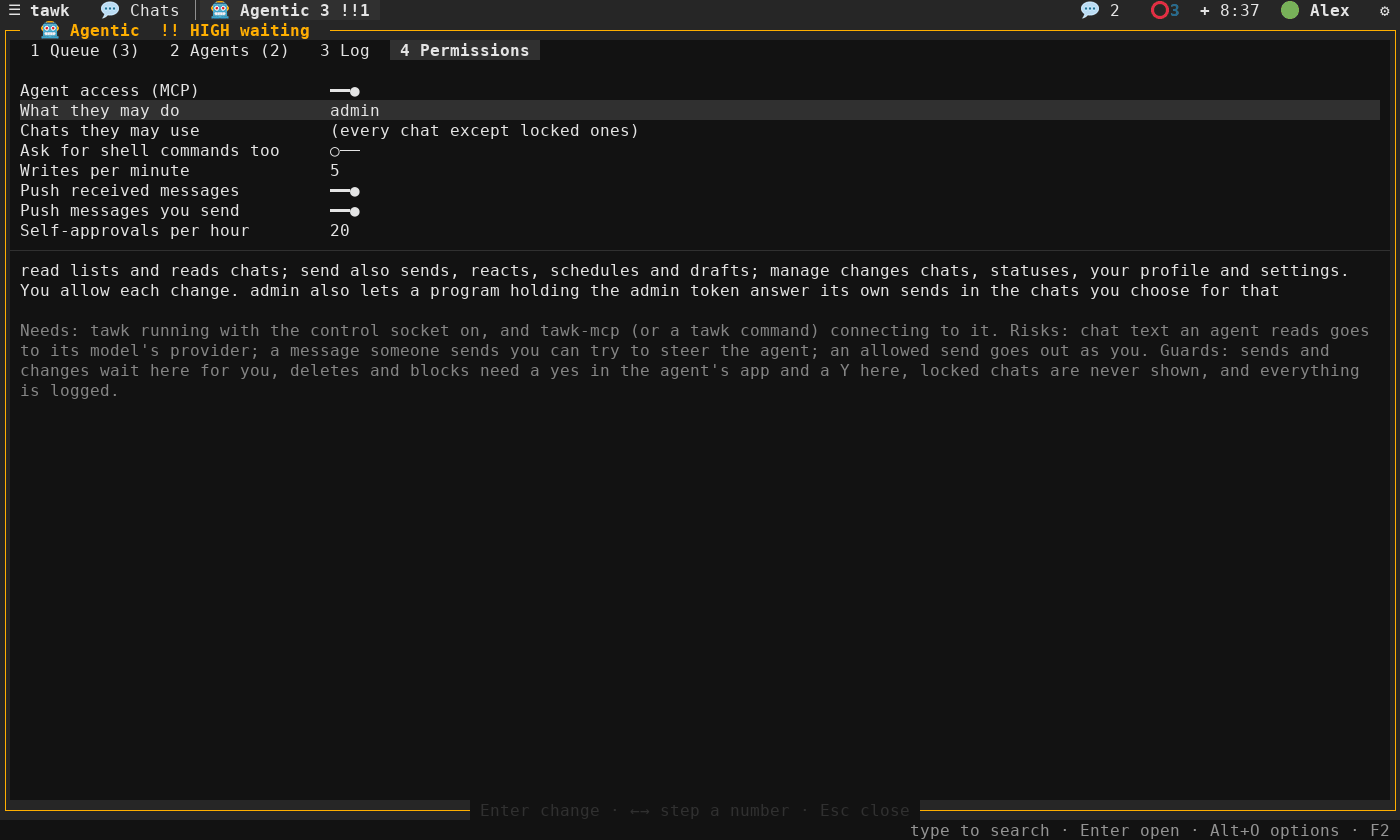
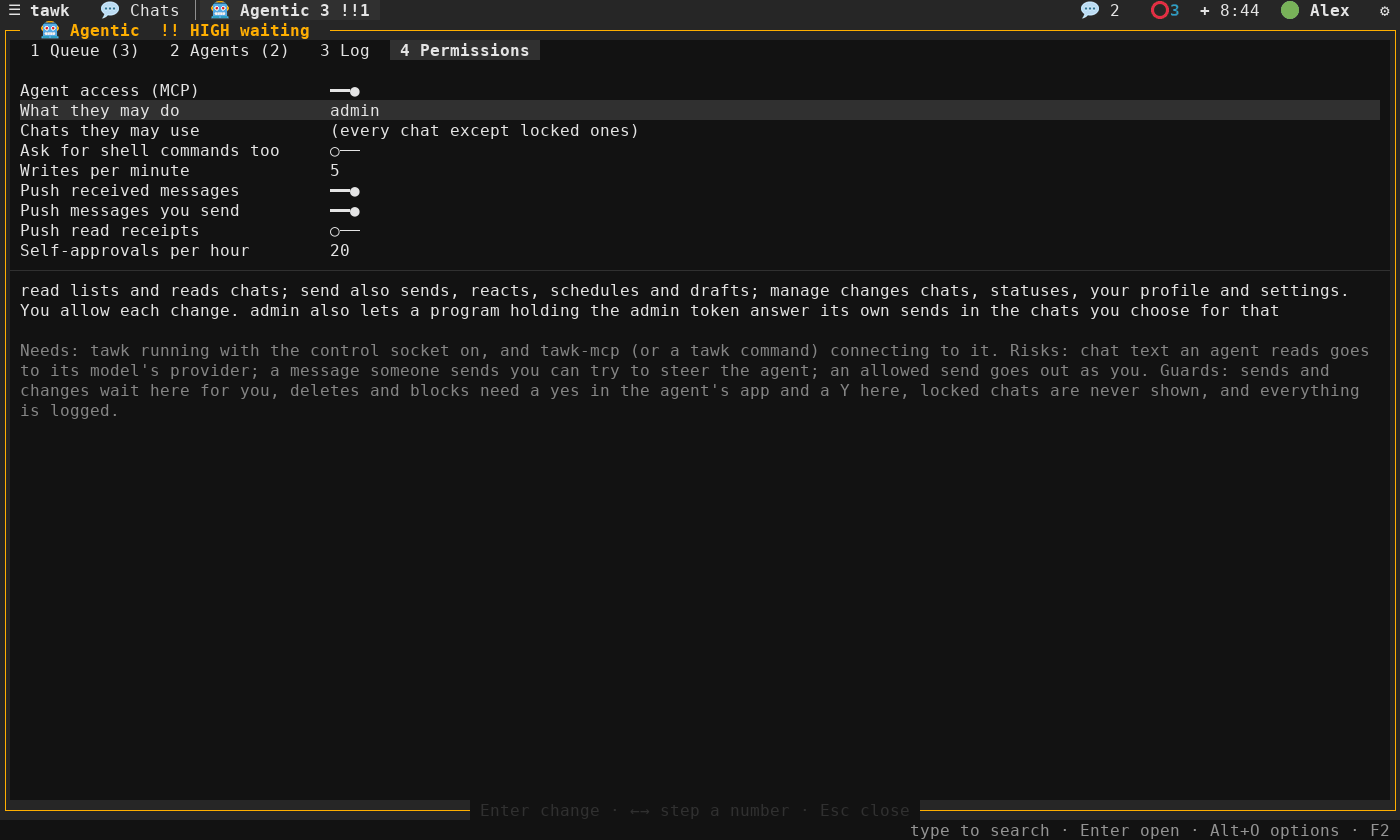
Document agent events and read receipts, with settings pictures drawn by the screenshot tool

Changed region(s): [[0.0, 0.2476, 0.9829, 0.4952]]

diff --git a/tools/screenshots/scenes.c b/tools/screenshots/scenes.c
@@ -21,6 +21,7 @@
 #include "clients/tui/message_view.h"
 #include "clients/tui/profile_dialogs.h"
 #include "clients/tui/scheduled_list_dialog.h"
+#include "clients/tui/settings_panel.h"
 #include "clients/tui/splash_view.h"
 #include "clients/tui/status_composer_dialog.h"
 #include "clients/tui/status_feed_dialogs.h"
@@ -754,6 +755,38 @@ static void self_chats_scene(void) {
     save("self-approval-chats");
 }
 
+/* ---- the settings panel, on made-up settings ------------------------------ */
+
+static Settings s_shown_settings;
+static const Settings *shown_settings(void *ctx) { (void)ctx; return &s_shown_settings; }
+static int shown_apply(void *ctx, const Settings *updated) { (void)ctx; s_shown_settings = *updated; return 0; }
+static IThemeRepository *shown_themes(void *ctx) { return ctx; }
+static void shown_preview(void *ctx, const Theme *theme) { (void)ctx; (void)theme; }
+static void shown_action(void *ctx, MenuAction action) { (void)ctx; (void)action; }
+static void shown_info(void *ctx, MenuInfo info, char *out, size_t size) {
+    (void)ctx;
+    str_copy(out, size, info == MENU_INFO_AGENTS ? "listening \xC2\xB7 1 agent connected" : "");
+}
+
+/* Settings, then the entry `steps` down from the top, opened. */
+static void settings_scene(IThemeRepository *themes, int steps, const char *name) {
+    settings_set_defaults(&s_shown_settings);
+    s_shown_settings.control_socket = 1;
+    s_shown_settings.automation_push_read = 1;
+    str_copy(s_shown_settings.automation_access, sizeof(s_shown_settings.automation_access), "admin");
+    SettingsPanelHost host = { themes, shown_settings, shown_apply, shown_themes, shown_preview, shown_action, shown_info };
+    static SettingsPanel panel;
+    settings_panel_init(&panel, host);
+    settings_panel_open(&panel);
+    draw_app(LIST_HINTS);
+    settings_panel_render(&panel, body(), 0);
+    for (int i = 0; i < steps; i++) settings_panel_key(&panel, 1, KEY_DOWN, 0);
+    settings_panel_key(&panel, 0, '\n', 0);
+    draw_app(LIST_HINTS);
+    settings_panel_render(&panel, body(), 0);
+    save(name);
+}
+
 static void splash_scene(void) {
     SplashView v;
     splash_view_start(&v, 0);
@@ -785,6 +818,8 @@ int main(int argc, char **argv) {
     status_reply_scene();
     forward_scene();
     self_chats_scene();
+    settings_scene(themes, 7, "settings-automation");
+    settings_scene(themes, 8, "settings-agent-events");
     scheduled_scene();
     agents_scenes();
     splash_scene();

diff --git a/MANUAL.md b/MANUAL.md
@@ -40,6 +40,7 @@ The screenshots in this manual were taken from tawk running on a demo account wi
 - [Backups](#backups)
 - [Automation and MCP](#automation-and-mcp)
   - [Turning it on](#turning-it-on)
+  - [Agent events](#agent-events)
   - [The Agentic tab](#the-agentic-tab)
   - [Letting an agent answer for itself](#letting-an-agent-answer-for-itself)
   - [Destructive requests](#destructive-requests)
@@ -970,10 +971,24 @@ The same submenu sets how far agents may go:
 | Chats they may use | Names or numbers separated by commas; empty allows every chat except locked ones |
 | Ask for shell commands too | Your own `tawk send` asks first as well (agents always ask) |
 | Writes per minute | More are refused until a minute has passed |
-| Push received messages | On: an agent that listens (tawk-mcp's channel, say) hears about each message other people send as it arrives. Off: it sees messages only when it reads a chat |
-| Push messages you send | The same for the messages you send, from tawk or your phone. Your own `tawk tail` always shows both |
 | Chats an agent may answer in by itself… | With **admin**: opens the list of chats, each with a switch, where an agent holding the admin token may answer its own sends |
 | Self-approvals per hour | With **admin**: how many of its own requests an agent may answer in an hour (20 by default); past that they wait for you |
+
+![The Automation settings](docs/images/settings-automation.png)
+
+### Agent events
+
+Settings has its own section, **Agent events**, for what agents are told as it happens. An agent that listens, such as tawk-mcp's channel in Claude Code, hears each kind only while its switch is on:
+
+| Switch | Default | What an agent hears |
+|---|---|---|
+| Push received messages | on | Each message other people send, as it arrives |
+| Push messages you send | on | Each message you send, from tawk or your phone |
+| Push read receipts | off | That someone read a message you sent, with who and when |
+
+![The Agent events section with its three switches](docs/images/settings-agent-events.png)
+
+With a switch off the agent is simply not told; it still sees messages when it reads a chat. Your own `tawk tail` always shows messages and never read receipts. tawk-mcp has matching options (`TAWKMCP_CHANNEL_OWN`, `TAWKMCP_CHANNEL_READ`) for what it passes on to the agent, so a kind reaches the agent only when both sides have it on.
 
 ### The Agentic tab
 

diff --git a/HOW_IT_WORKS.md b/HOW_IT_WORKS.md
@@ -816,6 +816,8 @@ flowchart TD
     PR -- no --> SKIP
 ```
 
+A read receipt for one of your messages takes the same road. `MessagingManager` puts it in the live ring as a `LIVE_KIND_READ` entry with who read it and when, and `automation_policy_pushes_read` lets it through only to programs acting for a model, and only with Push read receipts on.
+
 With access admin a client can give that answer itself. `AutomationManager` keeps an admin token while the access setting says admin: it writes a fresh one through `IAdminTokenStore` when the control client's tick finds access at admin with none issued, and removes it when access is anything else and when tawk quits. The `approve` operation finds the caller's own waiting request, and the manager decides: `automation_policy_self_approval` checks the access, the kind of operation and that the chat is one agents may use and one you switched on in the self-approval chats (kept in `self_approval_chats`, with `*` for all, and empty for none), the token is compared without stopping at the first difference, and the `hourly_quota` engine counts it against `self_approvals_per_hour`. When the answer is yes the request is withdrawn from the queue and carried out as if you had allowed it, logged as approved by the agent, and the manager hands the screen a line to show. When it is no the request stays in the queue for you.
 
 The chats are chosen in `ChatToggleDialog`, a list with a `toggle_switch` per chat and one for all, opened from the Automation settings by `tui_self_chats.c`. The dialog knows nothing about what the chats are for: the terminal client reads the setting into it, and writes what is switched on back through the settings manager when you save.

diff --git a/CONFIGURATION.md b/CONFIGURATION.md
@@ -164,6 +164,7 @@ What other programs reaching tawk through its control socket may do: tawk-mcp an
 | `writes_per_minute` | `5` | Writes allowed per minute (1 to 60) |
 | `push_received` | `on` | Programs acting for a model that subscribed are told about each message other people send, as it arrives. Off, they see messages only when they read a chat |
 | `push_sent` | `on` | The same for the messages you send. Your own shell commands (`tawk tail`) always hear both |
+| `push_read` | `off` | Programs acting for a model that subscribed are told when someone reads a message you sent |
 | `self_approval_chats` | empty | With `access = admin`: the chats a program may answer its own sends in, as JIDs separated by commas, or `*` for every chat it may use. Empty allows none. Set from Settings, Automation, where each chat has a switch |
 | `self_approvals_per_hour` | `20` | With `access = admin`: requests a program may answer itself in an hour (1 to 240); past this they wait for you |
 

diff --git a/CONTROL.md b/CONTROL.md
@@ -273,6 +273,7 @@ Your profile and the app:
 After `subscribe`, tawk sends:
 
 - `{"evt":"message","chat":{"jid","name"},"message":message}` for every new message, sent or received, in a subscribed chat. For a client whose origin is `mcp`, `push_received` and `push_sent` in `[automation]` decide whether received and sent messages are sent at all; origin `cli` always gets both.
+- `{"evt":"read","chat":{"jid","name"},"message_id":"…","reader":{"jid","name"},"at":ts}` when someone reads a message you sent in a subscribed chat. Only for origin `mcp`, and only with `push_read` on.
 - `{"evt":"chat","chat":chat}` when a subscribed chat's unread count changes.
 - `{"evt":"bye"}` just before tawk quits.
 
